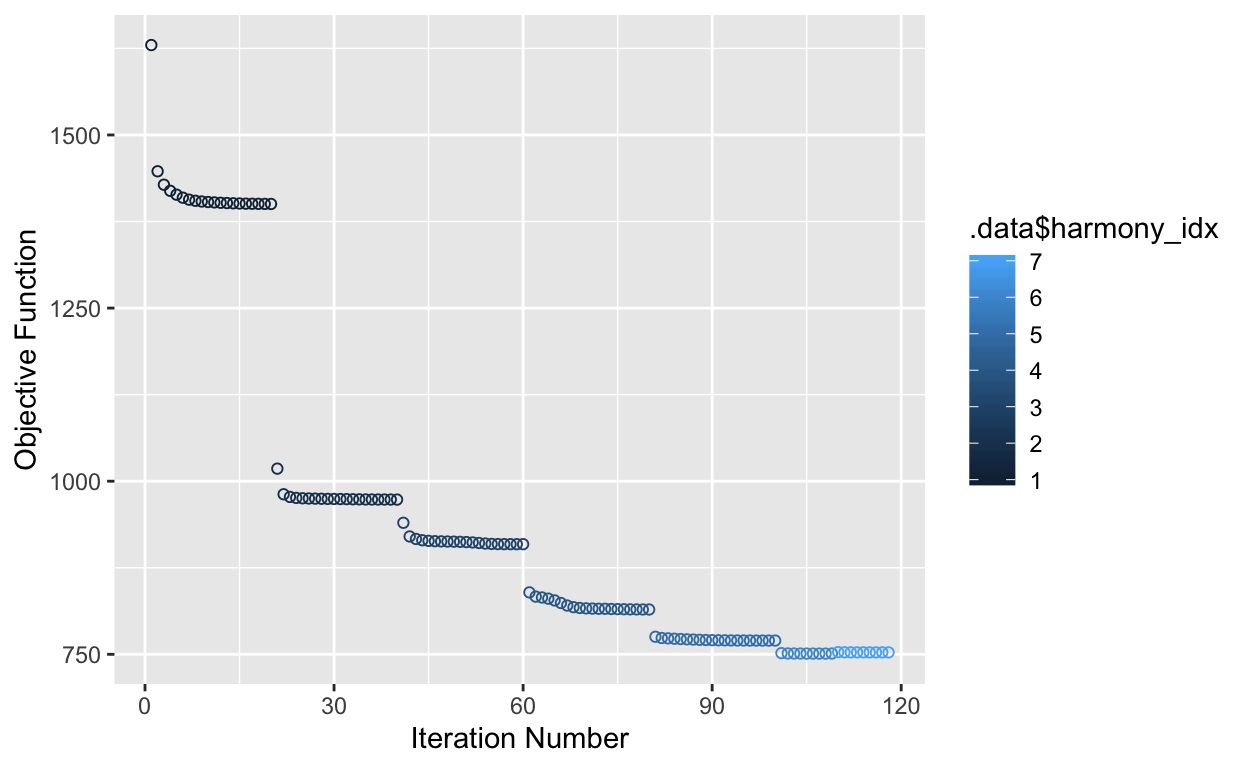
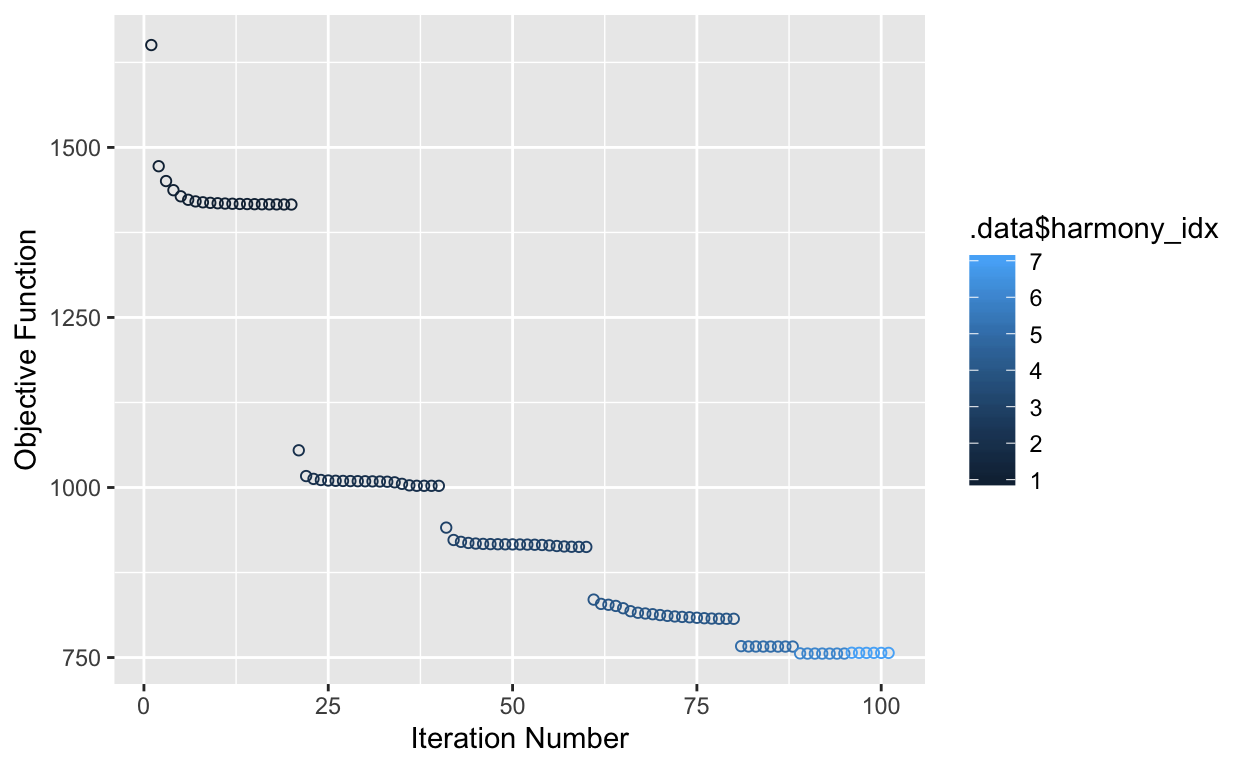
Module 6 update

diff --git a/docs/6_alignment.html b/docs/6_alignment.html
@@ -1369,6 +1369,17 @@
 <h2 id="load-the-seurat-pancreatic-islet-datasets">Load the Seurat pancreatic islet dataset(s)</h2>
 <p>This object contains human pancreatic islet cell data from four single cell sequencing technologies, CelSeq (GSE81076), CelSeq2 (GSE85241), Fluidigm C1 (GSE86469), and SMART-Seq2 (E-MTAB-5061). Basic normalization has been performed, as described earlier in this workshop. The UMAP projection below illustrates the challenge: despite containing the same cell populations, the cells are separated not only by cell type (1st plot), but also by technology (2nd plot).</p>
 <div class="layout-chunk" data-layout="l-body">
+<pre class="r"><code>
+so &lt;- readRDS(gzcon(url(&quot;https://scrnaseq-workshop.s3-us-west-2.amazonaws.com/pancreas.Rds&quot;)))
+
+pre_cell_plot &lt;- DimPlot(so,
+                         reduction = &quot;umap&quot;,
+                         group.by = &quot;celltype&quot;)
+pre_tech_plot &lt;- DimPlot(so,
+                         reduction = &quot;umap&quot;,
+                         group.by = &quot;tech&quot;)
+
+plot_grid(pre_cell_plot, pre_tech_plot, nrow = 2)</code></pre>
 <p><img src="6_alignment_files/figure-html5/pancreas_data-1.png" width="960" style="display: block; margin: auto;" /></p>
 </div>
 <h2 id="quick-and-flexible-harmony">Quick and Flexible: Harmony</h2>
@@ -1377,7 +1388,14 @@
 <h3 id="running-harmony-on-a-seurat-object">Running harmony on a Seurat object</h3>
 <p>Harmony provides a wrapper function (<code>RunHarmony()</code>) that can take Seurat (v2 or v3) or SingleCellExperiment objects directly. Here, we run harmony with the default parameters and generate a plot to confirm convergence. <code>RunHarmony()</code> returns an object with a new dimensionality reduction - named harmony - that can be used for downstream projections and clustering.</p>
 <div class="layout-chunk" data-layout="l-body">
+<pre class="r"><code>
+so &lt;- RunHarmony(so,
+                 group.by.vars = &quot;tech&quot;,
+                 plot_convergence = T)</code></pre>
 <p><img src="6_alignment_files/figure-html5/harmony-1.png" width="624" style="display: block; margin: auto;" /></p>
+<pre class="r"><code>
+# a new reduction now appears, in the form of &#39;harmony&#39;
+so@reductions$harmony</code></pre>
 <pre><code>
 #&gt; A dimensional reduction object with key harmony_ 
 #&gt;  Number of dimensions: 50 
@@ -1388,19 +1406,40 @@
 <p>We can use plot this new reduction directly, or use it to generate new UMAPs.</p>
 <p>Plotting the first two harmony dimensions directly already reveals the value of this approach - the cells are now spatially clustered by cell type, rather than by technology:</p>
 <div class="layout-chunk" data-layout="l-body">
+<pre class="r"><code>
+harmony_cell_plot &lt;- DimPlot(so, reduction = &quot;harmony&quot;, group.by = &quot;celltype&quot;)
+harmony_tech_plot &lt;- DimPlot(so, reduction = &quot;harmony&quot;, group.by = &quot;tech&quot;)
+
+plot_grid(harmony_cell_plot, harmony_tech_plot, nrow = 2)</code></pre>
 <p><img src="6_alignment_files/figure-html5/harmony_plots-1.png" width="960" style="display: block; margin: auto;" /></p>
 </div>
 <p>We can also generate UMAP projections from the harmony reductions.</p>
 <div class="layout-chunk" data-layout="l-body">
+<pre class="r"><code>
+# the first 20 harmony dimensions are a sane default
+so &lt;- RunUMAP(so,
+              reduction = &quot;harmony&quot;,
+              dims = 1:20,
+              reduction.name = &quot;harmony_umap&quot;)
+
+h_umap_cell_plot &lt;- DimPlot(so, reduction = &quot;harmony_umap&quot;, group.by = &quot;celltype&quot;, label = T, repel = T)
+h_umap_tech_plot &lt;- DimPlot(so, reduction = &quot;harmony_umap&quot;, group.by = &quot;tech&quot;)
+
+plot_grid(h_umap_cell_plot, h_umap_tech_plot, nrow = 2)</code></pre>
 <p><img src="6_alignment_files/figure-html5/harmony_umap-1.png" width="960" style="display: block; margin: auto;" /></p>
 </div>
 <p>This is a simplified example where we already have independent clustering in all four samples. In a production analysis, you will likely want to cluster the cells using the harmony alignment:</p>
 <div class="layout-chunk" data-layout="l-body">
-
+<pre class="r"><code>
+so &lt;- FindNeighbors(so, reduction = &quot;harmony&quot;, dims = 1:20)
+so &lt;- FindClusters(so, resolution = 0.5)</code></pre>
 </div>
 <p>Harmony is also highly tunable. Additional co-variates can be included and the strength of alignment can be tuned for each co-variate using the theta argument.</p>
 <div class="layout-chunk" data-layout="l-body">
-
+<pre class="r"><code>
+so &lt;- RunHarmony(so,
+                 group.by.vars = c(&quot;tech&quot;, ...), # can be any metadata column
+                 theta = c(3,4)) # default theta = 2; higher value = more agressive integration</code></pre>
 </div>
 <h2 id="built-in-but-more-complex-to-run-seurat-v3-integration">Built-in, but more complex to run: Seurat v3 Integration</h2>
 <p><img src="https://satijalab.org/img/vignette_images/anchorsb_2018.png" data-align="center" /></p>
@@ -1408,24 +1447,49 @@
 <h3 id="running-seurat-v3-integration">Running Seurat v3 Integration</h3>
 <p>To construct a reference, we will identify ‘anchors’ between the individual data sets. First, we split the combined object into a list, with each data set as an element.</p>
 <div class="layout-chunk" data-layout="l-body">
-
+<pre class="r"><code>
+so.list &lt;- SplitObject(so, split.by = &quot;tech&quot;)</code></pre>
 </div>
 <p>Prior to finding anchors, we perform standard preprocessing (log-normalization), and identify variable features individually for each.</p>
 <div class="layout-chunk" data-layout="l-body">
+<pre class="r"><code>
+seurat.preprocess &lt;- function(so){
+  so_tmp &lt;- NormalizeData(so, verbose = FALSE)
+  so_tmp &lt;- FindVariableFeatures(so_tmp, selection.method = &quot;vst&quot;, 
+        nfeatures = 2000, verbose = FALSE)
+  so_tmp
+}
 
+so.list &lt;- map(so.list, ~seurat.preprocess(.x))</code></pre>
 </div>
 <p>Next, we identify anchors using the FindIntegrationAnchors function, which takes a list of Seurat objects as input. Here, we integrate the four objects into a reference.</p>
 <p>We use all default parameters here for identifying anchors, including the ‘dimensionality’ of the data set (30; feel free to try varying this parameter over a broad range, for example between 10 and 50).</p>
 <div class="layout-chunk" data-layout="l-body">
-
+<pre class="r"><code>
+reference.list &lt;- so.list[c(&quot;celseq&quot;, &quot;celseq2&quot;, &quot;smartseq2&quot;,&quot;fluidigmc1&quot;)]
+so.anchors &lt;- FindIntegrationAnchors(object.list = reference.list, dims = 1:30)</code></pre>
 </div>
 <p>We then pass these anchors to the IntegrateData function, which returns a Seurat object.</p>
 <p>The returned object will contain a new Assay, which holds an integrated (or ‘batch-corrected’) expression matrix for all cells, enabling them to be jointly analyzed.</p>
 <div class="layout-chunk" data-layout="l-body">
-
+<pre class="r"><code>
+so.integrated &lt;- IntegrateData(anchorset = so.anchors, dims = 1:30)</code></pre>
 </div>
 <p>We can then use this new integrated matrix for downstream analysis and visualization. Here we scale the integrated data, run PCA, and visualize the results with UMAP. The integrated data sets cluster by cell type, instead of by technology.</p>
 <div class="layout-chunk" data-layout="l-body">
+<pre class="r"><code>
+# switch to integrated assay. The variable features of this assay are automatically
+# set during IntegrateData
+DefaultAssay(so.integrated) &lt;- &quot;integrated&quot;
+
+# Run the standard workflow for visualization and clustering
+so.integrated &lt;- ScaleData(so.integrated, verbose = FALSE)
+so.integrated &lt;- RunPCA(so.integrated, npcs = 30, verbose = FALSE)
+so.integrated &lt;- RunUMAP(so.integrated, reduction = &quot;pca&quot;, dims = 1:30)
+s_umap_cell_plot &lt;- DimPlot(so.integrated, reduction = &quot;umap&quot;, group.by = &quot;celltype&quot;, label = T, repel = T)
+s_umap_tech_plot &lt;- DimPlot(so.integrated, reduction = &quot;umap&quot;, group.by = &quot;tech&quot;)
+
+plot_grid(s_umap_cell_plot, s_umap_tech_plot, nrow = 2)</code></pre>
 <p><img src="6_alignment_files/figure-html5/seurat_plot-1.png" width="960" style="display: block; margin: auto;" /></p>
 </div>
 <h2 id="deep-learning-scalign">Deep learning: scAlign</h2>
@@ -1433,33 +1497,99 @@
 <h3 id="running-scalign-on-a-seurat-object">Running scAlign on a Seurat object</h3>
 <p>Starting from the so.list we generated for the Seurat integration, we can jump right into the scAlign workflow.</p>
 <div class="layout-chunk" data-layout="l-body">
+<pre class="r"><code>
+scalign.preprocess &lt;- function(so){
+    so_tmp &lt;- NormalizeData(so)
+    so_tmp &lt;- ScaleData(so_tmp, features = rownames(so_tmp))
+    so_tmp &lt;- FindVariableFeatures(so_tmp,
+                                   selection.method = &quot;vst&quot;,
+                                   nfeatures = 3000)
+  so_tmp
+}
 
+so.list &lt;- map(so.list, ~scalign.preprocess(.x))</code></pre>
 </div>
 <p>Next, we can extract a common set of genes across all data sets.</p>
 <div class="layout-chunk" data-layout="l-body">
-
+<pre class="r"><code>
+genes.use &lt;- unique(unlist(map(so.list, ~.x@assays$RNA@var.features)))</code></pre>
 </div>
 <p>The general design of scAlign makes it agnostic to the input RNA-seq data representation. Thus, the input data can either be gene-level counts, transformations of those gene level counts or a preliminary step of dimensionality reduction such as canonical correlates or principal component scores. Here we convert the previously defined Seurat objects to SingleCellExperiment objects in order to create the combined scAlign object.</p>
 <div class="layout-chunk" data-layout="l-body">
-
+<pre class="r"><code>
+so.sce.list = lapply(so.list,
+                           function(seurat.obj){
+                             SingleCellExperiment(assays = list(logcounts = seurat.obj@assays$RNA@data[genes.use,],
+                                                                scale.data = seurat.obj@assays$RNA@scale.data[genes.use,]),
+                                                  colData = seurat.obj@meta.data)
+                            })</code></pre>
 </div>
 <p>Next, we build the scAlign combined SCE object and append the results of the Harmony integration. The scAlign vignette uses the Seurat v2 RunMultiCCA reduction here, but the principle is the same. Any shared metric can be used - log-space gene expression, PCA, CCA, etc. We will build two scAlign objects - one with labels (cell type) and one without.</p>
 <div class="layout-chunk" data-layout="l-body">
+<pre class="r"><code>
+scAlignPancreas = scAlignCreateObject(sce.objects = so.sce.list,
+                                      project.name = &quot;scAlign_Pancreatic_Islet&quot;,
+                                      labels = map(so.sce.list, ~.x@colData$celltype))
 
+reducedDim(scAlignPancreas, &quot;Harmony&quot;) = so@reductions$harmony@cell.embeddings[rownames(scAlignPancreas@colData),]</code></pre>
 </div>
 <p>Finally, we align the pancreas islets sequenced across different protocols using the results of RunHarmony as input to scAlign.</p>
 <div class="layout-chunk" data-layout="l-body">
+<pre class="r"><code>
+scAlignPancreas = scAlignMulti(scAlignPancreas,
+                        options=scAlignOptions(steps=15000,
+                                               log.every=5000,
+                                               architecture=&quot;large&quot;,   ## 3 layer neural network
+                                               num.dim=64),            ## Number of latent dimensions
+                        encoder.data=&quot;Harmony&quot;,
+                        supervised=&#39;none&#39;,
+                        run.encoder=TRUE,
+                        run.decoder=FALSE,
+                        log.results=TRUE,
+                        log.dir=file.path(&#39;./tmp&#39;),
+                        device = &quot;GPU&quot;)
 
+# convert the scAlign ovject to Seurat and run UMAP on the aligned reduction.
+so.sca &lt;- RunUMAP(as.Seurat(scAlignPancreas, counts = NULL), reduction = &quot;ALIGNED-Harmony&quot;, dims = 1:20)
+
+# save the aligned Seurat object for plotting
+saveRDS(so.sca, &quot;so_sca.Rds&quot;)</code></pre>
 </div>
 <p>scAlign can be run unsupervised, partially supervised, or fully supervised. Here we’re running unsupervised.</p>
 <div class="layout-chunk" data-layout="l-body">
+<pre class="r"><code>
+so.sca &lt;- readRDS(&quot;so_sca.Rds&quot;)
+
+sca_umap_cell_plot &lt;- DimPlot(so.sca, reduction = &quot;umap&quot;, group.by = &quot;celltype&quot;, label = T, repel = T)
+sca_umap_tech_plot &lt;- DimPlot(so.sca, reduction = &quot;umap&quot;, group.by = &quot;tech&quot;)
+
+plot_grid(sca_umap_cell_plot, sca_umap_tech_plot, nrow = 2)</code></pre>
 <p><img src="6_alignment_files/figure-html5/scalign_plot-1.png" width="960" style="display: block; margin: auto;" /></p>
 </div>
 <h2 id="comparing-all-three-integration-methods">Comparing all three integration methods</h2>
-<p>All three integration/alignment methods do a similar job of harmonizing the four sequencing techniques. Method selection, tuning and assessment is highly dependent on knowledge of the experimental design and underlying biology.</p>
+<p>All three integration/alignment methods do a similar job of aligning shared cell types across the four sequencing techniques.</p>
 <div class="layout-chunk" data-layout="l-body">
-<p><img src="6_alignment_files/figure-html5/final_plot-1.png" width="960" style="display: block; margin: auto;" /><img src="6_alignment_files/figure-html5/final_plot-2.png" width="960" style="display: block; margin: auto;" /></p>
+<pre class="r"><code>
+CombinePlots(list(pre_cell_plot,
+                  h_umap_cell_plot,
+                  s_umap_cell_plot,
+                  sca_umap_cell_plot),
+             legend = &quot;none&quot;,
+             ncol = 2)</code></pre>
+<p><img src="6_alignment_files/figure-html5/final_plot_cell-1.png" width="960" style="display: block; margin: auto;" /></p>
 </div>
+<p>And all three techniques do a satisfactory job of eliminating intra-cluster technology bias.</p>
+<div class="layout-chunk" data-layout="l-body">
+<pre class="r"><code>
+CombinePlots(list(pre_tech_plot,
+                  h_umap_tech_plot,
+                  s_umap_tech_plot,
+                  sca_umap_tech_plot),
+             legend = &quot;none&quot;,
+             ncol = 2)</code></pre>
+<p><img src="6_alignment_files/figure-html5/final_plot_tech-1.png" width="960" style="display: block; margin: auto;" /></p>
+</div>
+<p>Ultimately, method selection, tuning and assessment is highly dependent on knowledge of the experimental design and underlying biology.</p>
 <!--radix_placeholder_article_footer-->
 <!--/radix_placeholder_article_footer-->
 </div>
